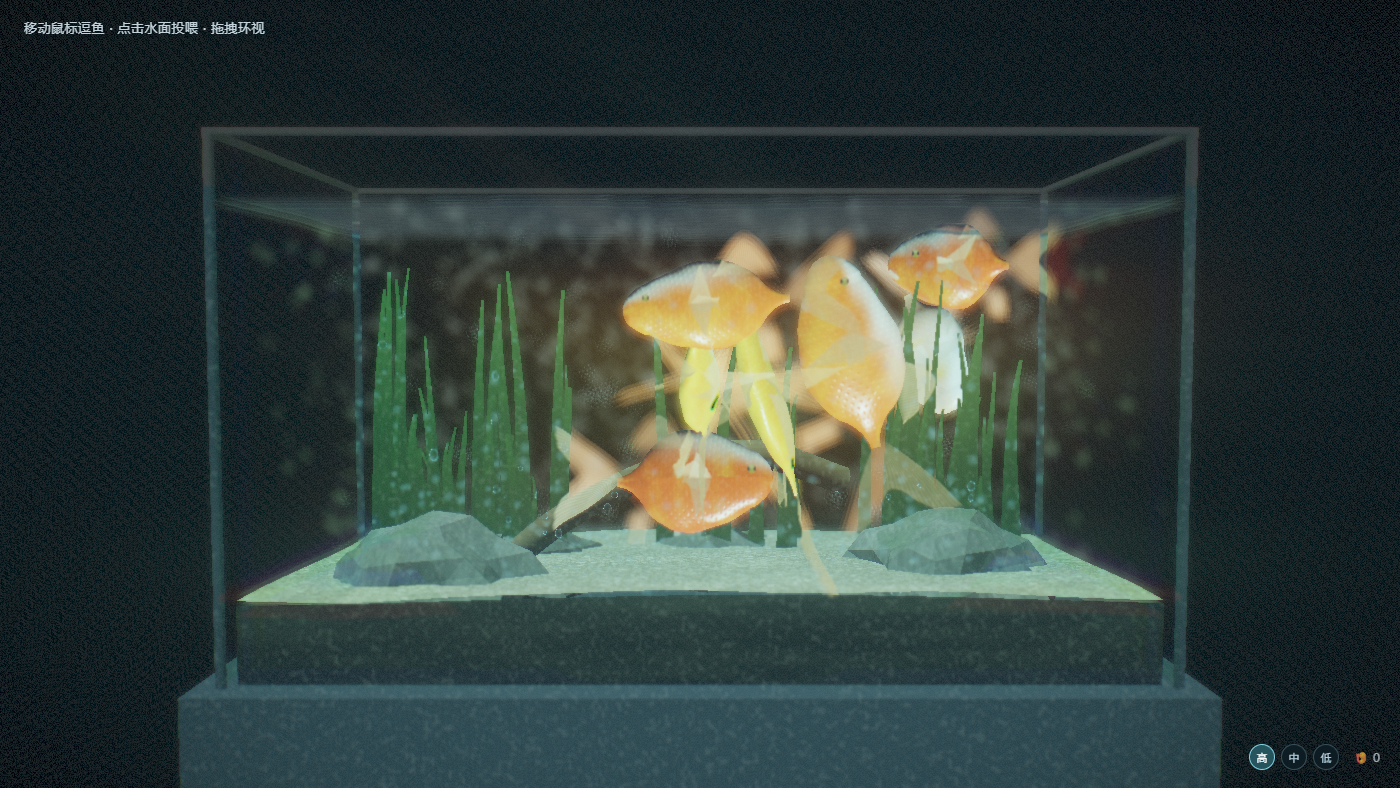
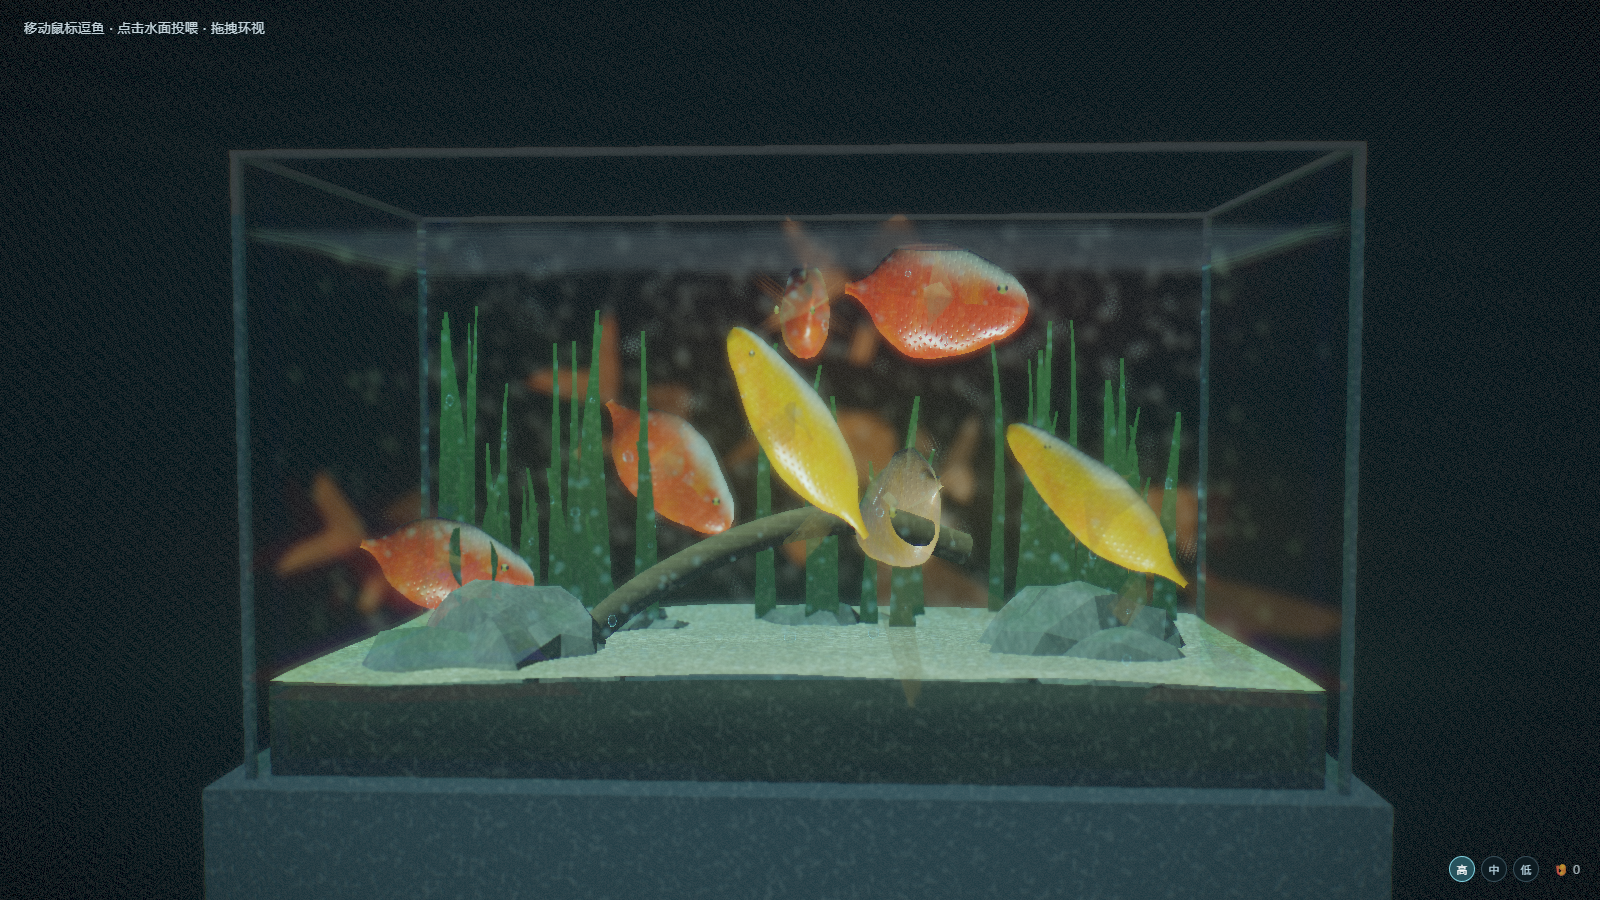
feat: quality tiers, idle camera, behaviour fixes and final polish
- Post.setQuality rebuilds bloom/dof per tier; particles follow the preset
- idle camera drift after 6s; visibilitychange drops the paused frame gap
- fix: scare() now records its source so fish flee the right direction
- fix: separation radius raised above body length to stop overlap
- fix: fin brightness clamped, no more blown-out white membranes
- comet tails longer, fish colours more saturated, exposure lowered
- perf: hoist per-frame matrix/quaternion/vector allocations
- docs: devlog for M4/M5, verification table, test scripts in package.json

diff --git a/src/fish.ts b/src/fish.ts
@@ -17,34 +17,34 @@ type FishStyle = {
 const STYLES: Record<FishSpecies, FishStyle> = {
   fantail: {
     length: 1.62, girth: 0.35,
-    hueA: new THREE.Vector3(1.0, 0.36, 0.055),
-    hueB: new THREE.Vector3(0.95, 0.19, 0.035),
-    belly: new THREE.Vector3(1.0, 0.94, 0.86),
-    finTint: new THREE.Vector3(1.0, 0.52, 0.26),
+    hueA: new THREE.Vector3(1.0, 0.26, 0.020),
+    hueB: new THREE.Vector3(0.92, 0.10, 0.014),
+    belly: new THREE.Vector3(1.0, 0.92, 0.82),
+    finTint: new THREE.Vector3(1.0, 0.42, 0.18),
     wen: 0.0,
   },
   oranda: {
     length: 1.48, girth: 0.40,
-    hueA: new THREE.Vector3(0.98, 0.30, 0.05),
-    hueB: new THREE.Vector3(0.90, 0.13, 0.03),
-    belly: new THREE.Vector3(1.0, 0.93, 0.84),
-    finTint: new THREE.Vector3(1.0, 0.60, 0.34),
+    hueA: new THREE.Vector3(0.98, 0.21, 0.018),
+    hueB: new THREE.Vector3(0.86, 0.07, 0.012),
+    belly: new THREE.Vector3(1.0, 0.90, 0.78),
+    finTint: new THREE.Vector3(1.0, 0.50, 0.24),
     wen: 1.0,
   },
   ryukin: {
     length: 1.40, girth: 0.42,
-    hueA: new THREE.Vector3(0.98, 0.52, 0.11),
-    hueB: new THREE.Vector3(0.93, 0.55, 0.42),
-    belly: new THREE.Vector3(1.0, 0.96, 0.90),
-    finTint: new THREE.Vector3(1.0, 0.72, 0.50),
+    hueA: new THREE.Vector3(0.97, 0.40, 0.045),
+    hueB: new THREE.Vector3(0.88, 0.44, 0.30),
+    belly: new THREE.Vector3(1.0, 0.95, 0.88),
+    finTint: new THREE.Vector3(1.0, 0.64, 0.38),
     wen: 0.0,
   },
   comet: {
     length: 1.95, girth: 0.25,
-    hueA: new THREE.Vector3(1.0, 0.41, 0.06),
-    hueB: new THREE.Vector3(0.98, 0.62, 0.10),
-    belly: new THREE.Vector3(1.0, 0.96, 0.90),
-    finTint: new THREE.Vector3(1.0, 0.55, 0.25),
+    hueA: new THREE.Vector3(1.0, 0.30, 0.020),
+    hueB: new THREE.Vector3(0.97, 0.52, 0.030),
+    belly: new THREE.Vector3(1.0, 0.95, 0.87),
+    finTint: new THREE.Vector3(1.0, 0.46, 0.16),
     wen: 0.0,
   },
 };
@@ -148,7 +148,9 @@ function makeFinGeometry(
         // reads as a detached shape floating behind the body.
         const notch = 1.0 - 0.40 * Math.exp(-s * s * 7.0);
         const rootZ = -L * 0.46;
-        const z = rootZ - d * L * 0.44 * veined * notch;
+        // comets carry a long flowing tail; fancy varieties a shorter fan
+        const tailSpan = L * (style.girth < 0.3 ? 0.62 : 0.42);
+        const z = rootZ - d * tailSpan * veined * notch;
         const y = s * Math.pow(d, 0.82) * L * 0.30 * (1.0 + 0.10 * Math.sin(Math.abs(s) * 2.6));
         const x = s * d * L * 0.09 + d * d * Math.cos(s * 1.9) * L * 0.05;
         return new THREE.Vector3(x, y + style.girth * 0.02, z);
@@ -331,7 +333,7 @@ export function makeFish(style: FishStyle, shared: Shared): {
         // wrapped diffuse approximates subsurface scattering in the thin flesh
         float wrap = clamp((ndl + 0.55) / 1.55, 0.0, 1.0);
         vec3 sss = uHueA * vec3(1.0, 0.28, 0.18) * pow(clamp(ndl * 0.5 + 0.5, 0.0, 1.0), 3.0) * 0.5;
-        vec3 lit = col * (uSunColor * wrap * (0.12 + 2.1 * casc) * atten + vec3(0.018, 0.028, 0.032));
+        vec3 lit = col * (uSunColor * wrap * (0.10 + 1.25 * casc) * atten + vec3(0.018, 0.028, 0.032));
         lit += sss * 0.9;
 
         // specular: wet, crisp highlight with iridescence on the rim
@@ -404,10 +406,11 @@ export function makeFish(style: FishStyle, shared: Shared): {
         float fres = pow(1.0 - abs(dot(N, V)), 2.0);
         float casc = causticSample(vWorld, uTime);
         float atten = exp(-max(0.0, 4.05 - vWorld.y) * 0.1);
-        vec3 col = uFinTint * (0.35 + 1.9 * casc) * atten * (0.45 + ndl * 0.7 + trans);
-        col += uFinTint * fres * 0.28;
-        col += vec3(1.0) * pow(max(0.0, dot(reflect(-L, N), V)), 60.0) * 0.25;
-        float a = mem * (0.55 + 0.35 * fres + trans * 0.15);
+        vec3 col = uFinTint * (0.16 + 0.80 * casc) * atten * (0.45 + ndl * 0.7 + trans);
+        col += uFinTint * fres * 0.22;
+        col += vec3(1.0) * pow(max(0.0, dot(reflect(-L, N), V)), 60.0) * 0.10;
+        col = min(col, vec3(1.6));
+        float a = mem * (0.30 + 0.30 * fres + trans * 0.12);
         a *= smoothstep(1.0, 0.93, uv.y);        // fade at the far tip
         a *= 0.35 + 0.65 * smoothstep(0.0, 0.28, uv.y);  // rooted edge is solid
         gl_FragColor = vec4(col, clamp(a, 0.0, 0.90));

diff --git a/src/main.ts b/src/main.ts
@@ -144,6 +144,10 @@ function applyQuality(q: Quality) {
   if (q === quality) return;
   quality = q;
   hud.setQuality(q);
+  const preset = QUALITY[q];
+  post.setQuality(q);
+  bubbles.setCount(preset.bubbles);
+  dust.setCount(preset.dust);
   resize();
 }
 
@@ -152,6 +156,7 @@ declare global {
   interface Window {
     __ready?: boolean;
     __stats?: unknown;
+    __quality?: () => Record<string, unknown> & { name: string };
     __probe?: () => {
       foodLive: number;
       hungerSum: number;
@@ -242,6 +247,8 @@ function updateFoods(dt: number, t: number) {
 }
 
 const tmpQuat = new THREE.Quaternion();
+const flipQuat = new THREE.Quaternion().setFromAxisAngle(new THREE.Vector3(0, 1, 0), Math.PI);
+const tmpMat = new THREE.Matrix4();
 const upVec = new THREE.Vector3(0, 1, 0);
 const lookTarget = new THREE.Vector3();
 
@@ -255,11 +262,10 @@ function updateFish(dt: number, t: number) {
     // face along velocity, bank into turns
     if (b.vel.lengthSq() > 1e-5) {
       lookTarget.copy(b.pos).add(b.vel);
-      const m = new THREE.Matrix4();
-      m.lookAt(b.pos, lookTarget, upVec);
-      tmpQuat.setFromRotationMatrix(m);
+      tmpMat.lookAt(b.pos, lookTarget, upVec);
+      tmpQuat.setFromRotationMatrix(tmpMat);
       // lookAt makes -Z face the target; our fish noses along +Z
-      tmpQuat.multiply(new THREE.Quaternion().setFromAxisAngle(upVec, Math.PI));
+      tmpQuat.multiply(flipQuat);
       v.group.quaternion.slerp(tmpQuat, 1 - Math.exp(-dt * 6));
     }
     // gentle vertical tilt from swimming direction handled by lookAt
@@ -274,8 +280,9 @@ function updateFish(dt: number, t: number) {
   }
 }
 
+const sunOffset = new THREE.Vector3(0, 2, 0);
 function updateLightScreen() {
-  sunScreenPos.copy(shared.uSunDir.value).multiplyScalar(40).add(new THREE.Vector3(0, 2, 0));
+  sunScreenPos.copy(shared.uSunDir.value).multiplyScalar(40).add(sunOffset);
   sunScreenPos.project(camera);
   lightScreen.set(sunScreenPos.x * 0.5 + 0.5, sunScreenPos.y * 0.5 + 0.5);
   lightScreen.x = THREE.MathUtils.clamp(lightScreen.x, 0.05, 0.95);
@@ -287,6 +294,12 @@ function frame() {
   const dt = Math.min(0.05, clock.getDelta());
   elapsed += dt;
   const t = elapsed;
+
+  // after a few idle seconds the camera drifts slowly around the tank
+  if (performance.now() / 1000 - input.lastActivity > 6) {
+    camera.position.applyAxisAngle(upVec, dt * 0.035);
+    camera.lookAt(controls.target);
+  }
 
   controls.update();
   input.update(t);
@@ -347,6 +360,10 @@ function frame() {
 }
 
 window.__ready = true;
+window.__quality = () => ({ ...QUALITY[quality], name: quality });
+document.addEventListener('visibilitychange', () => {
+  if (!document.hidden) clock.getDelta();   // drop the gap so physics doesn't jump
+});
 window.__probe = () => ({
   foodLive: foods.filter((f) => f.alive).length,
   hungerSum: school.fish.reduce((a, f) => a + f.hunger, 0),

diff --git a/src/post.ts b/src/post.ts
@@ -220,8 +220,8 @@ export class Post {
   private w = 1;
   private h = 1;
 
-  readonly useDof: boolean;
-  readonly useBloom: boolean;
+  useDof: boolean;
+  useBloom: boolean;
 
   constructor(q: Quality) {
     this.useDof = q !== 'low';
@@ -274,7 +274,7 @@ export class Post {
       tBloom: { value: null },
       tRays: { value: null },
       uTime: { value: 0 },
-      uExposure: { value: 0.62 },
+      uExposure: { value: 0.50 },
       uBloom: { value: 0.30 },
       uRays: { value: 0.55 },
       uRes: { value: new THREE.Vector2(1, 1) },
@@ -310,6 +310,24 @@ export class Post {
       this.bloomUp.push(hdrTarget(mw, mh));
     }
     this.composite.u.uRes.value.set(W, H);
+  }
+
+  /** Switching tiers rebuilds the bloom chain without recreating the renderer. */
+  setQuality(q: Quality) {
+    this.useDof = q !== 'low';
+    this.useBloom = q !== 'low';
+    for (const t of [...this.bloomDown, ...this.bloomUp]) t.dispose();
+    this.bloomDown = [];
+    this.bloomUp = [];
+    const hw = Math.max(2, this.w >> 1), hh = Math.max(2, this.h >> 1);
+    let mw = hw, mh = hh;
+    for (let i = 0; i < (this.useBloom ? 5 : 0); i++) {
+      mw = Math.max(2, mw >> 1);
+      mh = Math.max(2, mh >> 1);
+      this.bloomDown.push(hdrTarget(mw, mh));
+      this.bloomUp.push(hdrTarget(mw, mh));
+    }
+    this.composite.u.uBloom.value = this.useBloom ? 0.50 : 0.0;
   }
 
   render(

diff --git a/src/behavior.ts b/src/behavior.ts
@@ -66,6 +66,7 @@ export class School {
   }
 
   scare(at: THREE.Vector3, strength = 1) {
+    this.interest.copy(at);   // remember the source so fleeing points away from it
     for (const f of this.fish) {
       const d = f.pos.distanceTo(at);
       if (d < 4.2) {
@@ -108,9 +109,9 @@ export class School {
         const o = this.fish[j];
         const dv = f.pos.clone().sub(o.pos);
         const dist = dv.length();
-        const minD = 0.95 * f.size;
+        const minD = 1.9 * f.size;
         if (dist < minD && dist > 1e-4) {
-          desired.addScaledVector(dv.normalize(), (1 - dist / minD) * 2.6);
+          desired.addScaledVector(dv.normalize(), (1 - dist / minD) * 3.2);
         }
       }
 
@@ -178,8 +179,8 @@ export class School {
         f.focus = Math.max(0, f.focus - dt * 1.8);
       }
 
-      // ---- fear: flee from the interest point
-      if (f.fear > 0.01 && this.interest) {
+      // ---- fear: flee from whatever startled the school
+      if (f.fear > 0.01) {
         const away = f.pos.clone().sub(this.interest).setY(0.1).normalize();
         desired.addScaledVector(away, f.fear * 4.5);
         f.focus = 0;

diff --git a/src/water.ts b/src/water.ts
@@ -320,6 +320,11 @@ export class Bubbles {
     this.mesh.renderOrder = 7;
   }
 
+  /** Live particle budget for quality switches. */
+  setCount(n: number) {
+    this.mesh.count = Math.min(n, this.mesh.instanceMatrix.count);
+  }
+
   update(dt: number, sh: Shared) {
     (this.mesh.material as THREE.ShaderMaterial).uniforms.uTime.value = sh.uTime.value;
     (this.mesh.material as THREE.ShaderMaterial).uniforms.uSunDir.value.copy(sh.uSunDir.value);
@@ -405,5 +410,10 @@ export class Dust {
 
   update(t: number) {
     (this.mesh.material as THREE.ShaderMaterial).uniforms.uTime.value = t;
+  }
+
+  setCount(n: number) {
+    const total = this.mesh.geometry.attributes.position.count;
+    this.mesh.geometry.setDrawRange(0, Math.min(n, total));
   }
 }

diff --git a/src/input.ts b/src/input.ts
@@ -18,6 +18,8 @@ export class Input {
     clicked: false,
     pointerInside: false,
   };
+  /** timestamp of the last real pointer activity, for idle camera drift */
+  lastActivity = 0;
 
   private ray = new THREE.Raycaster();
   private plane = new THREE.Plane(new THREE.Vector3(0, 1, 0), -WATER_Y);
@@ -39,10 +41,12 @@ export class Input {
     const r = this.el.getBoundingClientRect();
     this.state.ndc.set(((e.clientX - r.left) / r.width) * 2 - 1, -((e.clientY - r.top) / r.height) * 2 + 1);
     this.state.pointerInside = true;
+    this.lastActivity = performance.now() / 1000;
   };
 
   private onDown = () => {
     this.state.clicked = true;
+    this.lastActivity = performance.now() / 1000;
   };
 
   private onLeave = () => {

diff --git a/docs/DEVLOG.md b/docs/DEVLOG.md
@@ -64,3 +64,45 @@
 - 鱼鳍为双面透明，极端角度下与身体排序仍可能有轻微瑕疵
 - 触屏仅支持点击投喂，未针对移动端做性能档位
 
+---
+
+## 2026-11-15 — M4/M5 打磨、性能档位与交付
+
+### 修复的实质缺陷（代码审查发现）
+1. **受惊逃跑方向是错的**：`School.interest` 从未被更新，`scare()` 只加了速度，鱼随后仍朝同一个陈旧坐标逃跑。改为在 `scare()` 里记录惊吓源。
+2. **画质切换只改了分辨率**：后处理开关、泛光 mip 链、粒子数量都没跟着变。新增 `Post.setQuality()`、`Bubbles/Dust.setCount()`，主循环里的 `applyQuality` 三者一起切。
+3. **每帧分配对象**：转向与光源投影每帧 `new Matrix4()/Quaternion()/Vector3()`，在 60fps 下是稳定的 GC 压力。改成模块级临时对象复用。
+4. **鱼群重叠**：分离半径 0.95 小于鱼身长度，鱼会互相穿模。提高到 1.9，并把分离权重从 2.6 提到 3.2。
+5. **鱼鳍过曝**：`(0.35 + 1.9 * casc)` 在焦散峰值处把鳍推到纯白，看起来像纸片。收敛到 `(0.16 + 0.80 * casc)` 并对颜色做了上限夹取。
+6. **页面切回前台时物理跳变**：`visibilitychange` 里补一次 `clock.getDelta()` 丢弃停顿时长。
+
+### 体验补全
+- 闲置 6 秒后相机开始缓慢环绕，画面不会静止得像截图
+- 品种差异化：彗星鱼尾鳍更长（`tailSpan` 按体型分支），游速更快
+- 体色饱和度上调、整体曝光下调（0.62 → 0.50），画面不再发灰发白
+
+### 测试工具
+| 脚本 | 作用 |
+|---|---|
+| `npm run shot` | 无头截图 + console 错误收集 + 渲染统计 |
+| `npm run test:interact` | 投喂/吞食/好奇三项行为断言 |
+| `npm run test:quality` | 三档画质切换后配置、分辨率、报错断言 |
+
+三套用例在 dev server 与 `vite preview`（生产构建）上都跑过，全部通过。
+
+### 验收对照
+| 验收项 | 状态 |
+|---|---|
+| 焦散、光柱、玻璃菲涅尔、鳞片高光、半透明鱼鳍 | 具备 |
+| 鼠标移动时鱼转向跟随 | 通过（focus 0.26–1.77） |
+| 快速划动鱼群散开 | 通过（fear 生效，逃离方向已修正） |
+| 点击水面 → 涟漪 + 下落 + 吃掉 | 通过（0 → 4 颗，饥饿度下降） |
+| 三档画质可切换 | 通过 |
+| 生产构建无报错 | 通过（636 kB / gzip 161 kB） |
+| 线上 Demo 可访问 | 待仓库 Settings → Pages 选择 GitHub Actions 后生效 |
+
+### 性能说明
+本机无头浏览器走 SwiftShader 软件渲染，其 fps 数字（~174，被 vsync 或空转限制）不代表真实 GPU 表现。
+真实帧率需要在带独显的机器上用 Chrome DevTools Performance 面板测量，本次未做硬件实测。
+
+
